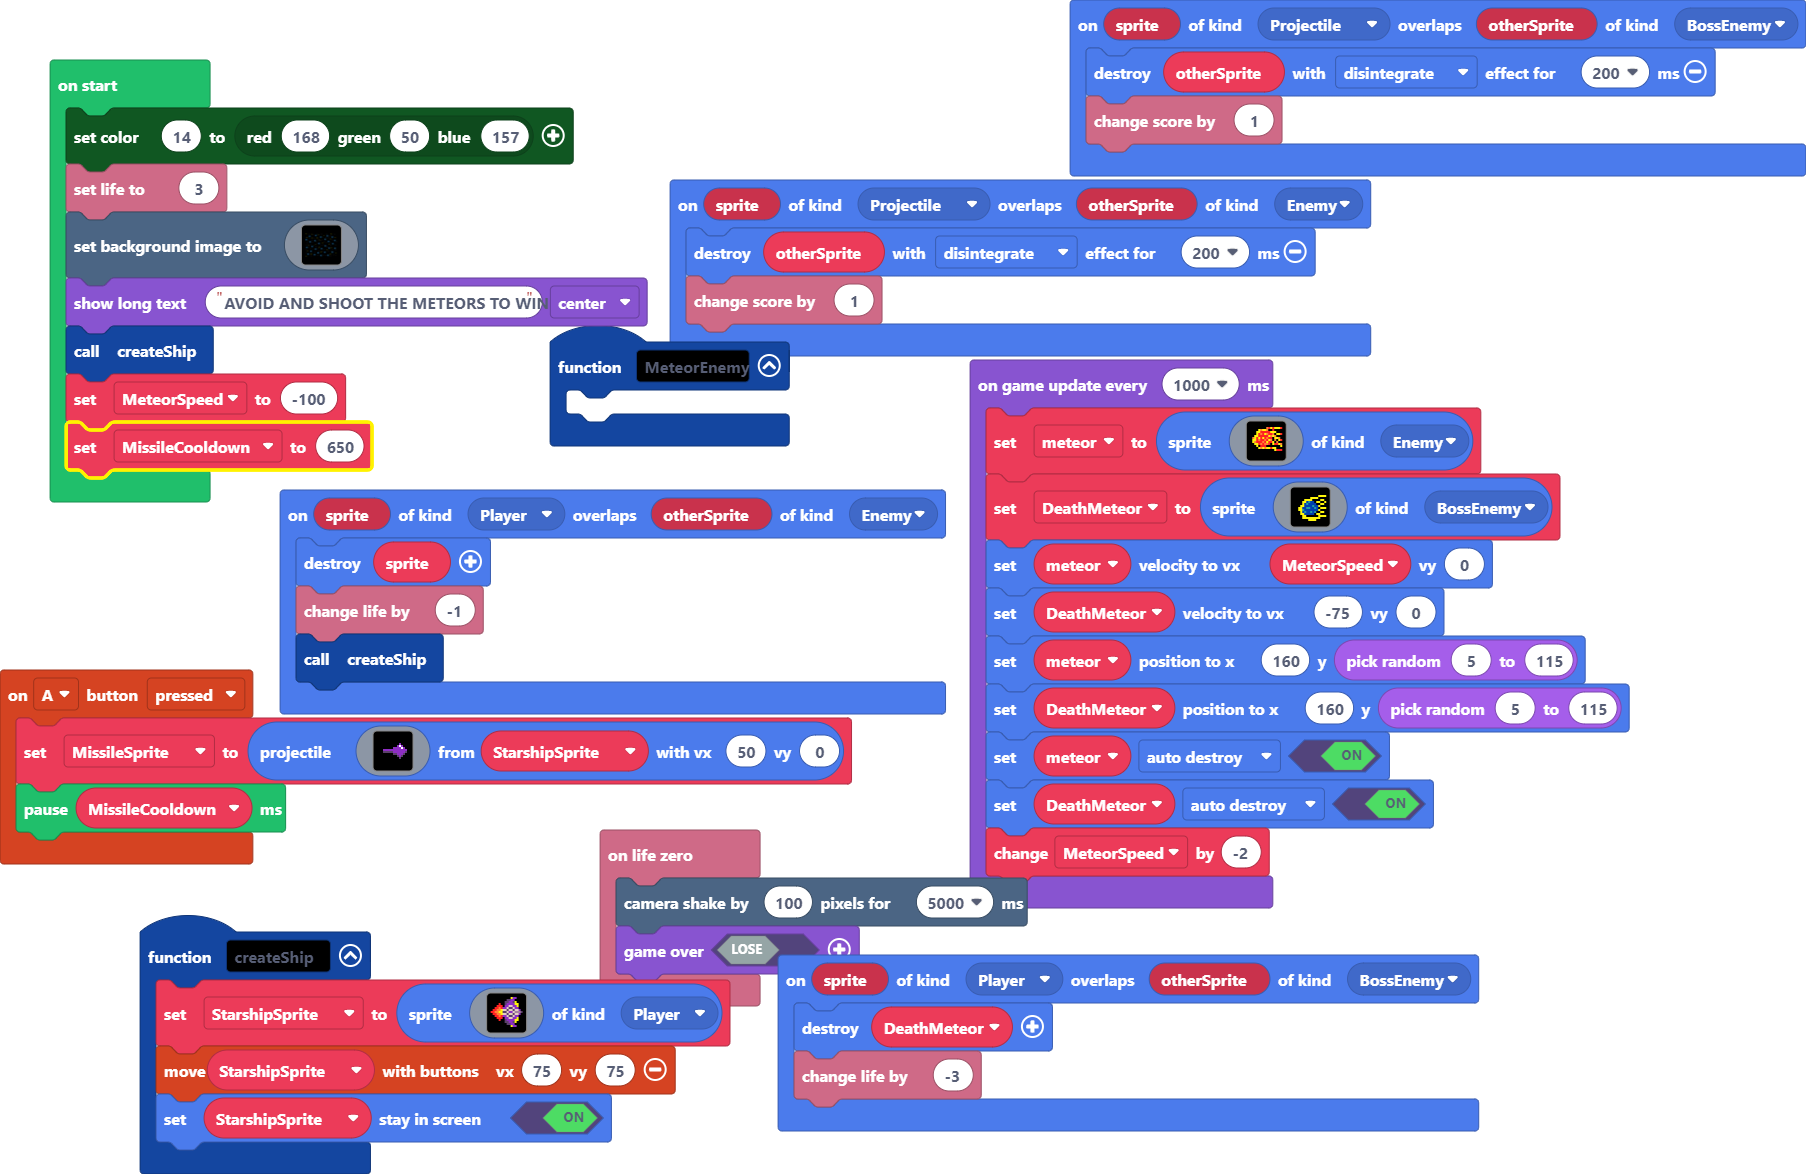
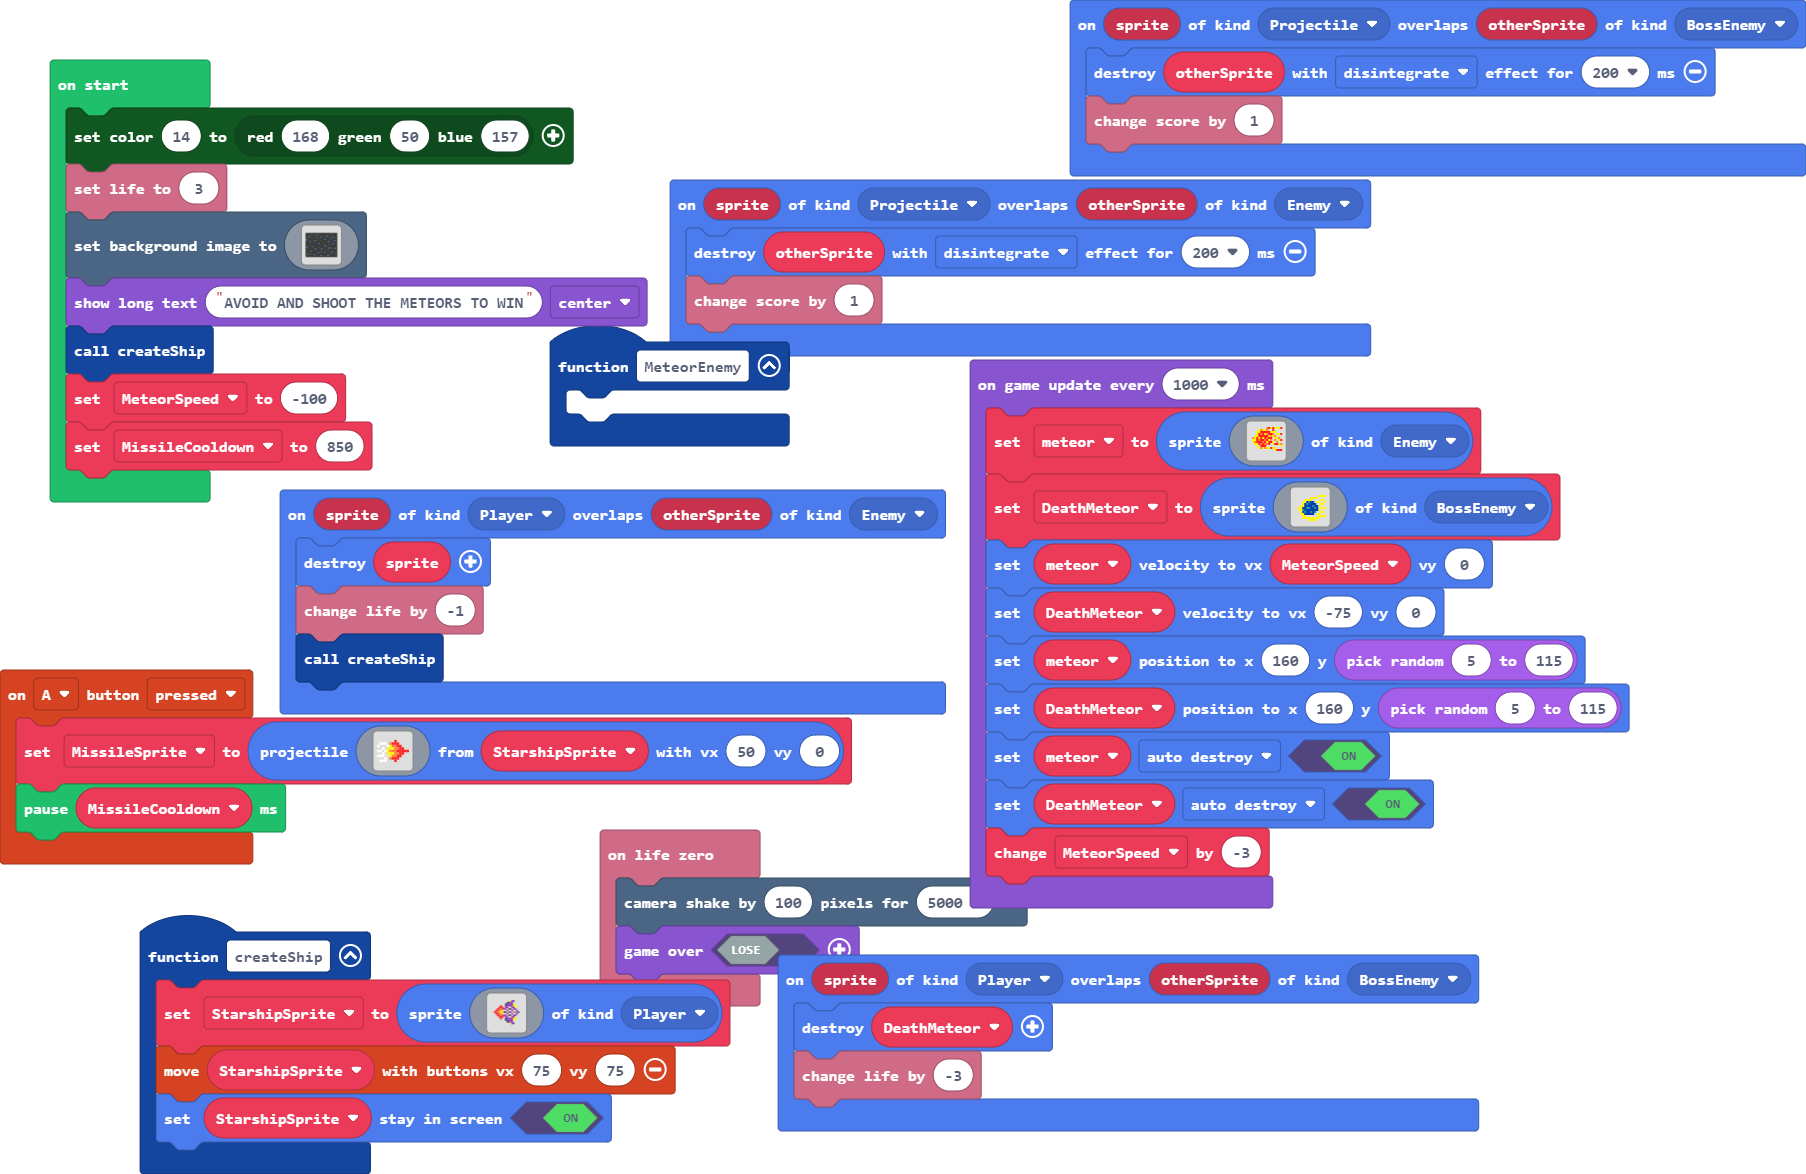
Meteor velocity intensity increased by 50%, Starship hitbox increased to 20x19, and projectile hitbox reduced to 13x13

diff --git a/images.g.ts b/images.g.ts
@@ -145,25 +145,6 @@ fff5ffffffffffffffffffffffffffffffffffffffffffffffffffffffffffffffffffffffffff8f
 ffffffffffffffffffffffffffffffffffffffffffffffffffffffffffffffffffffffffffffffffffffffffffffffffffffffffffffffffffffffffffffffffffffffffffffffffffffffffffffffff
 ffffffffffffffffffffffffffffffffffffffffffffffffffffffffffffffffffffffffffffffffffffffffffffffffffffffffffffffffffffffffffffffffffffffffffffffffffffffffffffffff
 `;
-            case "image1":
-            case "StarshipSpriteOne":return img`
-. . . . . . . . . . 5 a a . . . 
-. . . . . . . . c c a a . . . . 
-. . . . . . . c c a a c 5 . . . 
-. . . . 2 . . c a a a a 5 5 . . 
-. . . 2 2 2 . a a d d a a 5 . . 
-. . 2 2 4 2 a a d c c d a a . . 
-. 2 2 4 4 5 d d c d d c d d a . 
-2 2 4 4 5 5 c c d a a d b b b c 
-. 2 2 4 4 5 d d c d d c d d a . 
-. . 2 2 4 2 a a d c c d a a . . 
-. . . 2 2 2 . a a d d a a 5 . . 
-. . . . 2 . . c a a a a 5 5 . . 
-. . . . . . . c c a a c 5 . . . 
-. . . . . . . . c c a a . . . . 
-. . . . . . . . . . 5 a a . . . 
-. . . . . . . . . . . . . . . . 
-`;
             case "image5":
             case "DeathMeteorSpriteOne":return img`
 . . . . . . . . . . . . . . . . 
@@ -202,30 +183,56 @@ ffffffffffffffffffffffffffffffffffffffffffffffffffffffffffffffffffffffffffffffff
 . . . . . . . . . . . . . . 4 4 
 . . . . . . . . . . . . . . . . 
 `;
+            case "image1":
+            case "StarshipSpriteOne":return img`
+....................
+....................
+............5aa.....
+..........ccaa......
+.........ccaac5.....
+......2..caaaa55....
+.....222.aaddaa5....
+....2242aadccdaa....
+...22445ddcddcdda...
+..224455ccdaadbbbc..
+...22445ddcddcdda...
+....2242aadccdaa....
+.....222.aaddaa5....
+......2..caaaa55....
+.........ccaac5.....
+..........ccaa......
+............5aa.....
+....................
+....................
+`;
             case "image2":
             case "MissileSpriteOne":return img`
-. . . . . . . . . . . . . . . . 
-. . . . . . . . . . . . . . . . 
-. . . . . . . . . . . . . . . . 
-. . . . . . . . . . . . . . . . 
-. . . . . . . . . . . a . . . . 
-. . . . . . . . . . a 1 a . . . 
-. . . . . . . . a a a a 1 a . . 
-. . . a a a a a a a a a a a a . 
-. . . c c c c c a a a a a a c . 
-. . . . . . . . c c a a a c . . 
-. . . . . . . . . . c a c . . . 
-. . . . . . . . . . . c . . . . 
-. . . . . . . . . . . . . . . . 
-. . . . . . . . . . . . . . . . 
-. . . . . . . . . . . . . . . . 
-. . . . . . . . . . . . . . . . 
+. . . . . . . . . . . . . 
+. . . . . . . . . . . . . 
+. . . . . . . 2 . . . . . 
+. 1 1 1 . 4 2 2 2 . . . . 
+1 . . . 1 5 4 4 2 2 . . . 
+. . 1 . 5 5 5 4 4 2 2 . . 
+1 1 . 1 5 4 4 4 2 2 2 2 2 
+. . 1 . 5 5 5 4 4 2 2 . . 
+1 1 1 . . 5 4 4 2 2 . . . 
+. . . 1 . 4 2 2 2 . . . . 
+. 1 1 1 . . . 2 . . . . . 
+. . . . . . . . . . . . . 
+. . . . . . . . . . . . . 
 `;
         }
         return null;
     })
 
     helpers._registerFactory("animation", function(name: string) {
+        switch(helpers.stringTrim(name)) {
+
+        }
+        return null;
+    })
+
+    helpers._registerFactory("song", function(name: string) {
         switch(helpers.stringTrim(name)) {
 
         }

diff --git a/main.ts b/main.ts
@@ -46,7 +46,7 @@ scene.setBackgroundImage(assets.image`GalaxyBackgroundOne`)
 game.showLongText("AVOID AND SHOOT THE METEORS TO WIN", DialogLayout.Center)
 createShip()
 let MeteorSpeed = -100
-MissileCooldown = 650
+MissileCooldown = 850
 game.onUpdateInterval(1000, function () {
     meteor = sprites.create(assets.image`MeteorSpriteOne`, SpriteKind.Enemy)
     DeathMeteor = sprites.create(assets.image`DeathMeteorSpriteOne`, SpriteKind.BossEnemy)
@@ -56,5 +56,5 @@ game.onUpdateInterval(1000, function () {
     DeathMeteor.setPosition(160, randint(5, 115))
     meteor.setFlag(SpriteFlag.AutoDestroy, true)
     DeathMeteor.setFlag(SpriteFlag.AutoDestroy, true)
-    MeteorSpeed += -2
+    MeteorSpeed += -3
 })
